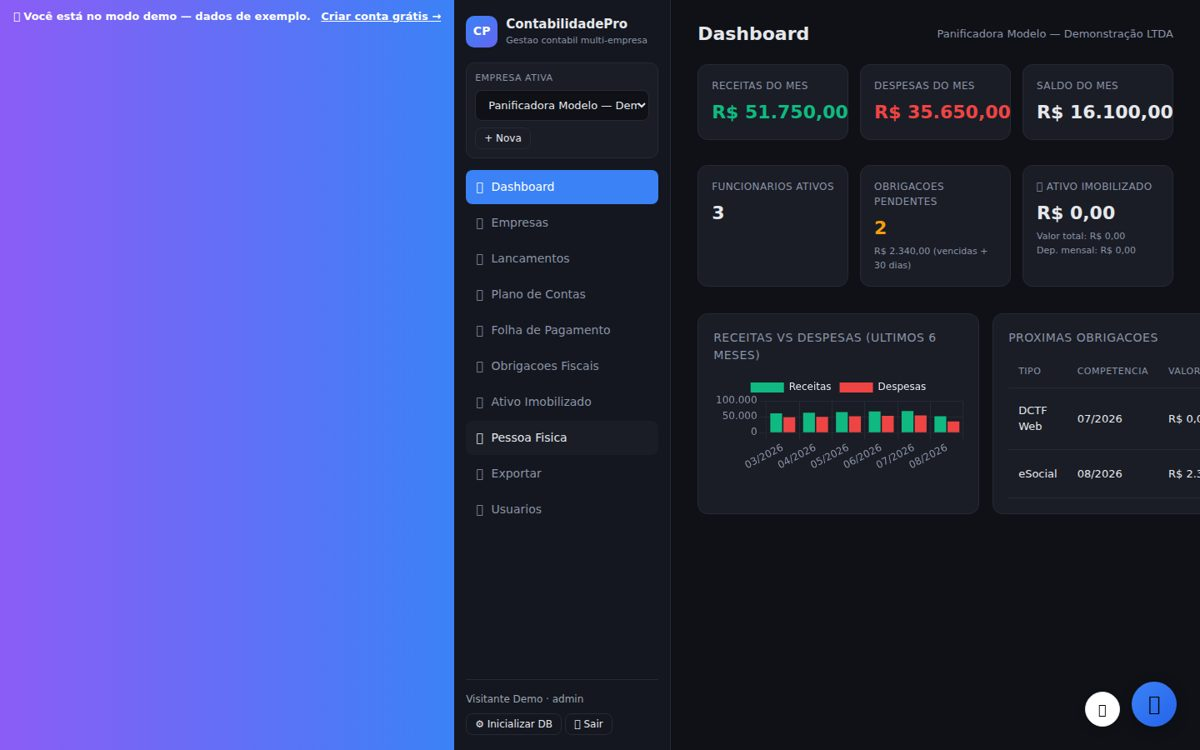
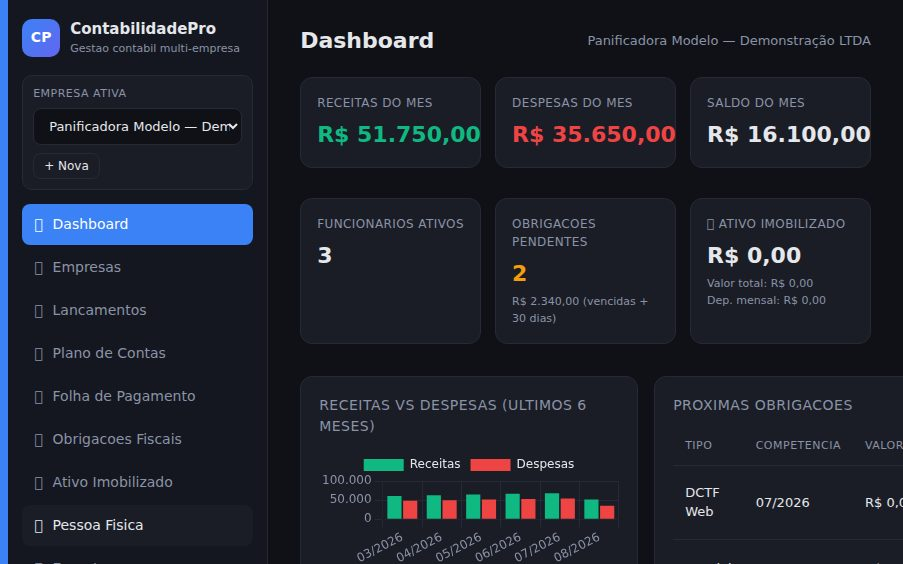
site: nenhum print mostra mais tela de boas-vindas
O Lucas pediu e tinha razao: print bom mostra o sistema trabalhando, nao a
tela que da 'oi' pro visitante.

- ViagemPro saiu do 'Ola! 👋' e passou a mostrar as viagens com roteiro pronto;
- ContabilidadePro perdia 40% da largura pra uma faixa de gradiente roxo (o
  fundo da pagina, nao conteudo) — agora a captura corta na borda do menu e o
  print e so sistema.

diff --git a/app/pdvpro/page.tsx b/app/pdvpro/page.tsx
@@ -15,15 +15,23 @@ export const metadata: Metadata = {
    páginas lado a lado. Então ela volta pro layout: mesma cor, mesmo conteúdo,
    e agora acompanha toda melhoria que os outros 20 receberem.
 
-   O que ela NÃO perde na volta: as CTAs honestas. O PDV Pro roda UMA LOJA POR
-   DEPLOY — não tem sandbox nem trial self-service. O /demo dele é agendamento
-   e o /cadastro?trial=1 não tem nem formulário. Por isso `semDemo` e as CTAs
-   apontando pro WhatsApp, em vez do "Ver demo / Testar 3 dias" dos outros. */
+   O trial continua sendo assistido: o PDV Pro roda UMA LOJA POR DEPLOY, então
+   /cadastro?trial=1 não tem formulário e as CTAs de contratação seguem indo
+   pro WhatsApp, em vez do "Testar 3 dias" self-service dos outros.
+
+   A demo, essa sim, deixou de ser agendamento: ganhou deploy próprio com banco
+   próprio em demo.pdvpro.luqsys.com.br — loja fictícia, caixa do dia aberto,
+   estoque e relatórios com número. Era o único sistema da casa sem nada pra
+   mostrar, logo o mais caro. Por isso `semDemo` saiu e entrou `demoUrl`: sem
+   apontar pro endereço novo, o layout montaria `appUrl + /demo` e mandaria o
+   visitante pra produção de um cliente real. */
 
 const ZAP = (texto: string) =>
   "https://wa.me/5545991077788?text=" + encodeURIComponent(texto);
 
-const DEMO = ZAP("Oi Lucas, quero ver o PDV Pro funcionando");
+/* Deploy separado, banco separado: loja fictícia que qualquer um pode abrir e
+   mexer. NÃO é o endereço principal — aquele é a produção de um cliente. */
+const DEMO_URL = "https://demo.pdvpro.luqsys.com.br/";
 
 export default function PDVProPage() {
   return (
@@ -40,10 +48,10 @@ export default function PDVProPage() {
           <strong className="text-white">o mesmo dado</strong>.
         </>
       }
-      ctaPrimaria={{ label: "Ver o sistema funcionando", href: DEMO }}
+      ctaPrimaria={{ label: "Abrir a demonstração", href: DEMO_URL }}
       ctaSecundaria={{ label: "Ver planos", href: "#planos" }}
-      rodapeHero="✦ Demonstração ao vivo, 15 a 20 minutos · sem compromisso · sem cartão de crédito"
-      semDemo
+      rodapeHero="✦ Loja de exemplo, aberta agora · sem cadastro, sem cartão de crédito · dados fictícios"
+      demoUrl={DEMO_URL}
       problema={{
         titulo: "Loja não quebra por falta de venda. Quebra por falta de controle.",
         texto: (
@@ -259,11 +267,11 @@ export default function PDVProPage() {
         },
         {
           p: "Por que não tem teste grátis igual aos outros sistemas?",
-          r: "Porque o PDV Pro não é multi-inquilino: cada loja roda no seu próprio ambiente, com o seu banco e o seu certificado. Não dá pra abrir sozinho num clique. Em compensação a demonstração é ao vivo e a liberação é acompanhada — você não fica sozinho com um sistema fiscal na mão.",
+          r: "Porque o PDV Pro não é multi-inquilino: cada loja roda no seu próprio ambiente, com o seu banco e o seu certificado — não dá pra abrir sozinho num clique. Pra ver o sistema por dentro tem a demonstração aberta, com uma loja de exemplo cheia de produto, venda e relatório. Já a liberação da sua loja é acompanhada: você não fica sozinho com um sistema fiscal na mão.",
         },
       ]}
       ctaFinalTitulo="Veja rodando antes de decidir"
-      ctaFinalTexto="Chame no WhatsApp e a gente abre o sistema na sua frente: venda no caixa, nota emitindo, relatório fechando. Se não servir pra sua loja, a gente fala isso também."
+      ctaFinalTexto="Abra a demonstração e mexa à vontade: venda no caixa, estoque baixando, relatório fechando. Depois chame no WhatsApp — se não servir pra sua loja, a gente fala isso também."
     />
   );
 }

diff --git a/app/viagempro/page.tsx b/app/viagempro/page.tsx
@@ -89,6 +89,9 @@ export default function ViagemProPage() {
           ],
         },
       ]}
+      prints={[
+        {arquivo: "/prints/viagempro-0.jpg", legenda: "Suas viagens, com o roteiro pronto"},
+      ]}
       praQuem={[
         {icone:"🧳", titulo:"Quem viaja e odeia planejar", texto:"O roteiro pronto pra editar, em vez da folha em branco."},
         {icone:"👨👩👧", titulo:"Família com dias contados", texto:"Encaixar tudo sem descobrir na hora que o museu fecha na terça."},

diff --git a/app/page.tsx b/app/page.tsx
@@ -53,6 +53,9 @@ const trilhas: Trilha[] = [
         tagline: "PDV + ERP completo pra loja física",
         preco: "R$ 149",
         aPartirDe: true,
+        // a demo dele mora em outro deploy: o endereco principal e a producao
+        // de uma loja real, e o sistema roda uma loja por instalacao
+        demoUrl: "https://demo.pdvpro.luqsys.com.br/",
       },
       {
         slug: "shoppro",
